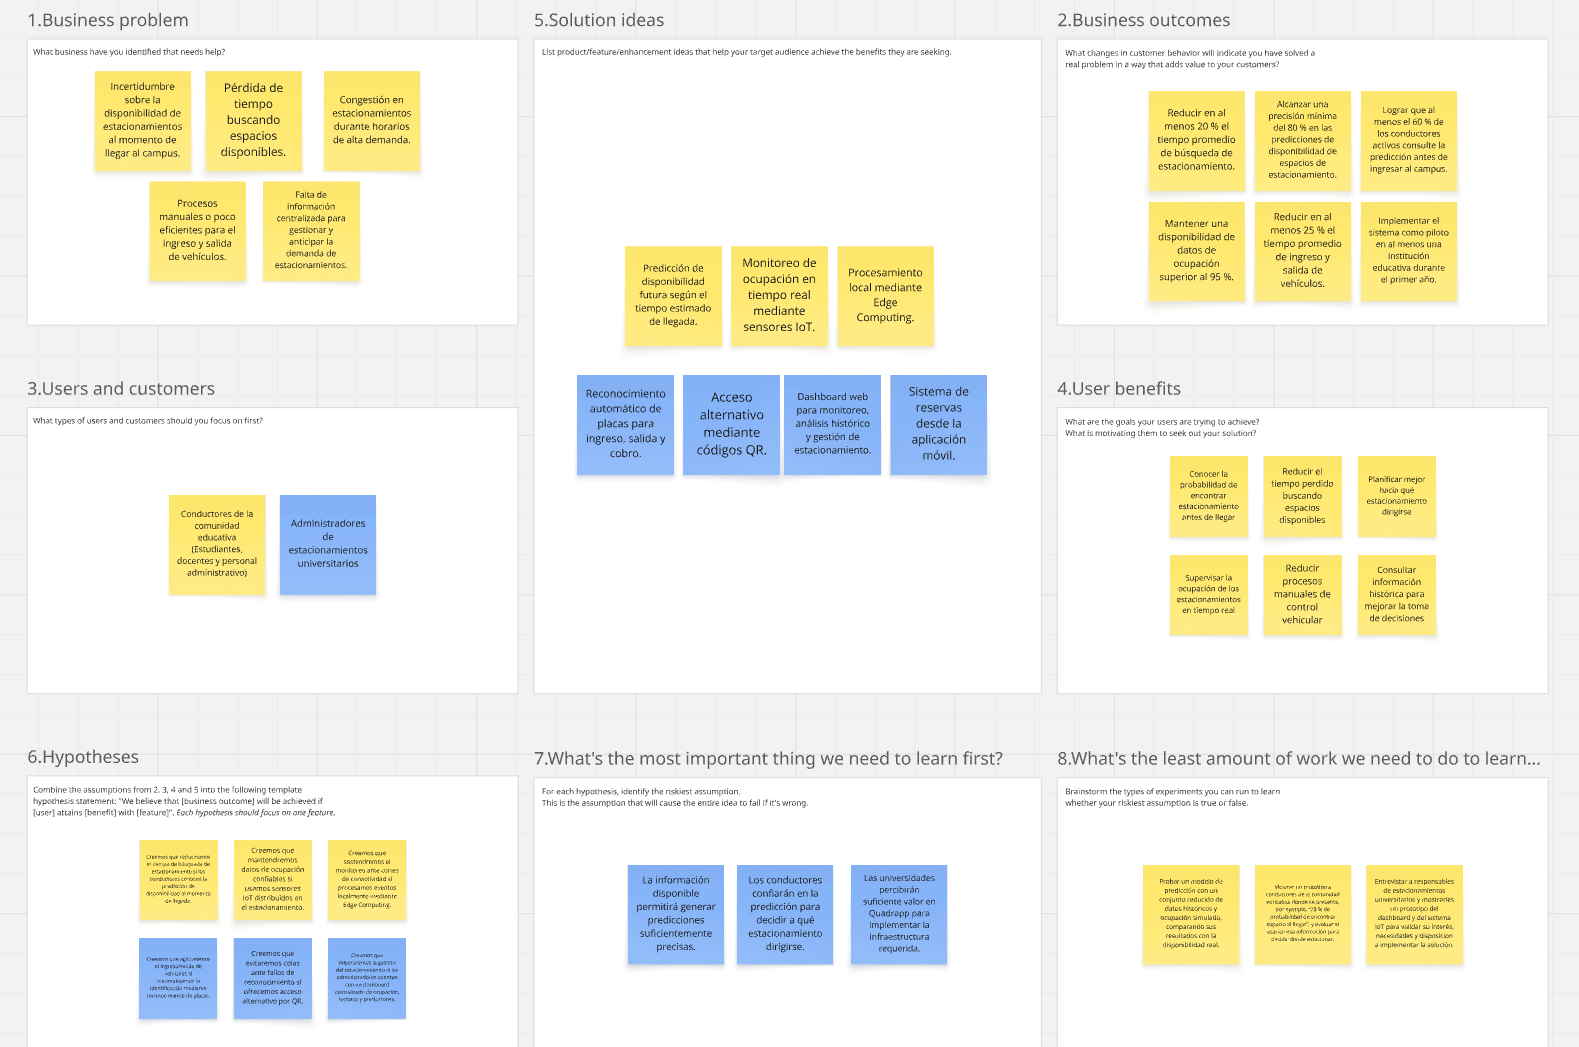
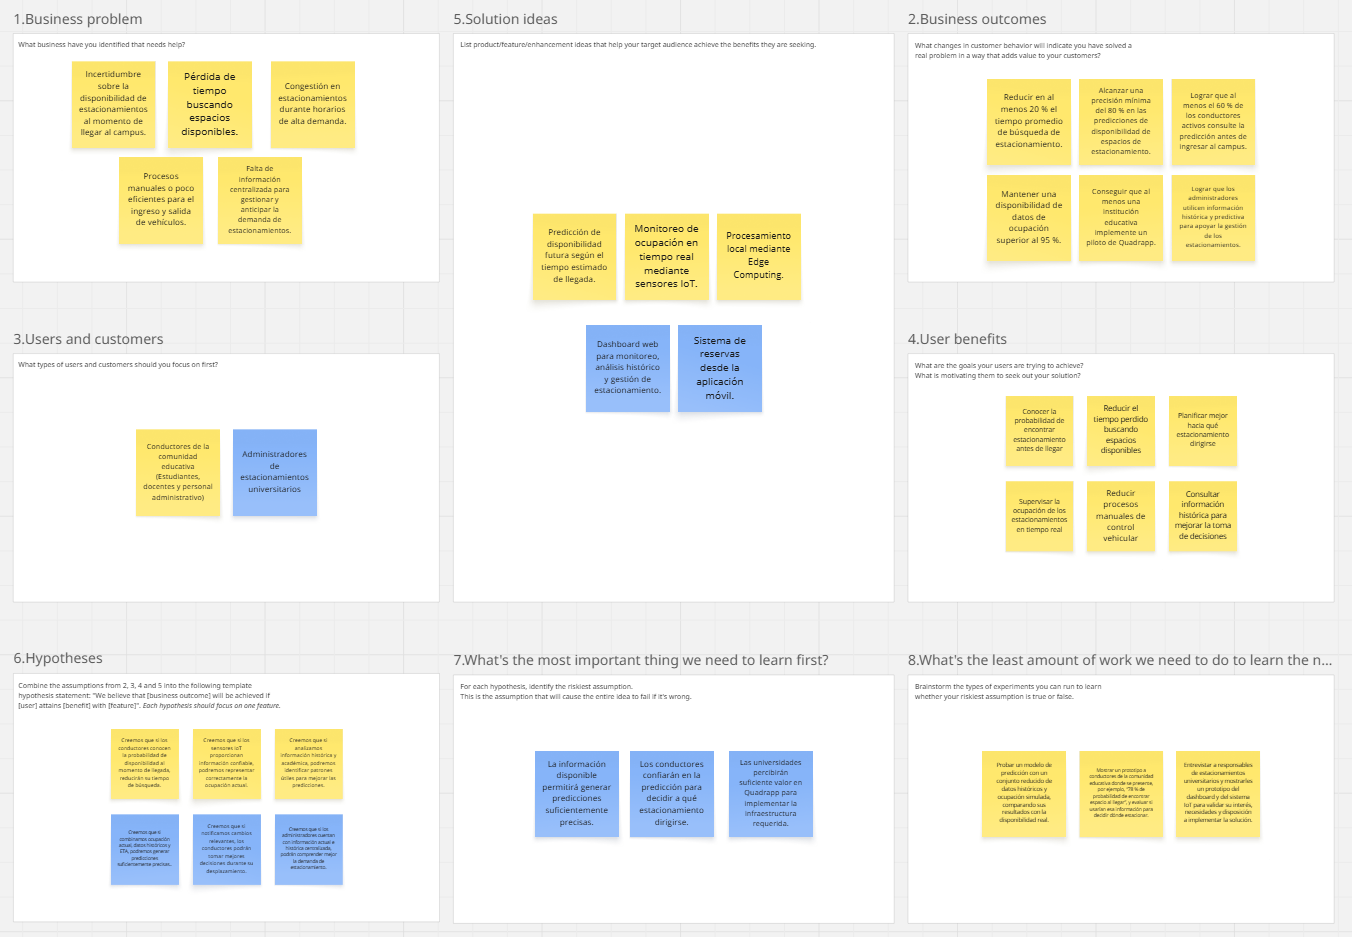
docs(chapter1): update lean ux process information

diff --git a/README.md b/README.md
@@ -271,42 +271,51 @@ Por otro lado, las universidades y administradores de estacionamientos necesitan
 
 Esta situación evidencia una brecha entre conocer cuántos espacios están disponibles actualmente y poder estimar qué probabilidad existe de encontrar uno al momento de llegar. Factores como el tiempo estimado de llegada, vehículos que se aproximan al campus, reservas existentes, registros históricos de ocupación, fecha, hora y horarios académicos pueden aportar información relevante para reducir esta incertidumbre.
 
-Frente a esta problemática, Quadrapp busca atender inicialmente a conductores de la comunidad educativa y administradores de estacionamientos universitarios, mediante una plataforma que combine información en tiempo real con datos históricos para estimar la disponibilidad futura de espacios. Asimismo, se busca agilizar la operación del estacionamiento mediante mecanismos automatizados de ingreso, salida y cobro, contribuyendo a una experiencia más predecible para el conductor y a una gestión más eficiente para las instituciones educativas.
+Frente a esta problemática, Quadrapp busca atender inicialmente a conductores de la comunidad educativa y administradores de estacionamientos universitarios, mediante una plataforma que combine información en tiempo real con datos históricos y académicos para estimar la disponibilidad futura. De esta manera, se busca ayudar a los conductores a tomar mejores decisiones antes de llegar al campus y proporcionar a los administradores información útil para comprender y gestionar la demanda de sus estacionamientos.
 
 #### 1.2.2.2. Lean UX Assumptions
 
 **Business Assumptions:**
 1. Los conductores de la comunidad educativa necesitan conocer no solo la disponibilidad actual de estacionamientos, sino también la probabilidad de encontrar un espacio disponible al momento estimado de su llegada al campus.
-2. Las necesidades de los conductores y de la instituciones serán atendidas mediante una aplicación móvil integrada con sensores IoT, datos históricos de ocupación, reservas, horarios académicos y estimaciones de tiempo de llegada, permitiendo generar predicciones sobre la disponibilidad futura de estacionamientos.
-3. Nuestros clientes iniciales serán universidades y centros educativos que administran estacionamientos propios y buscan reducir la congestión, optimizar el uso de sus espacios y mejorar la experiencia de movilidad dentro del campus.
-4. El principal valor que los conductores esperan de Quadrapp es contar con información que reduzca la incertidumbre sobre si encontrarán un espacio disponible cuando lleguen, permitiéndoles tomar mejores decisiones antes y durante su desplazamiento.
-5. Los administradores de estacionamientos también podrán obtener valor mediante un dashboard que centralice información sobre ocupación actual, reservas, ingresos, salidas, comportamiento histórico y períodos de mayor demanda.
-6. Obtendremos nuestra base inicial de clientes mediante alianzas con universidades y centros educativos, demostraciones de la solución en campus y propuestas de mejora de la gestión de estacionamientos dirigidas a las áreas responsables de infraestructura, seguridad y movilidad.
-7. Generaremos ingresos principalmente mediante un modelo de suscripción o licenciamiento institucional para universidades, considerando servicios adicionales asociados a la infraestructura IoT, procesamiento Edge y automatización de accesos.
-8. Nuestra principal competencia serán plataformas de estacionamiento como Apparka, sistemas tradicionales de control de acceso y soluciones de parking inteligente orientadas principalmente a mostrar disponibilidad actual, gestionar pagos o automatizar el ingreso de vehículos.
-9. Nuestro mayor riesgo es que la predicción de disponibilidad no alcance un nivel de precisión suficiente para generar confianza en los conductores, debido a información incompleta, fallas en sensores o cambios inesperados en el comportamiento de ocupación del estacionamiento.
+
+2. Las necesidades de los conductores serán atendidas mediante una aplicación móvil que combine datos de ocupación obtenidos mediante IoT, información histórica, horarios académicos y tiempo estimado de llegada para generar predicciones de disponibilidad futura.
+
+3. Nuestros clientes iniciales serán universidades y centros educativos que administran estacionamientos propios y buscan reducir la congestión, optimizar el uso de sus espacios y comprender mejor los patrones de movilidad dentro del campus.
+
+4. El principal valor que los conductores esperan de Quadrapp es reducir la incertidumbre sobre si encontrarán un espacio disponible cuando lleguen, permitiéndoles tomar mejores decisiones durante su desplazamiento.
+
+5. Los administradores obtendrán valor mediante un dashboard que centralice información sobre ocupación actual, comportamiento histórico, períodos de mayor demanda y predicciones de disponibilidad.
+
+6. Obtendremos nuestra base inicial de clientes mediante alianzas con universidades y centros educativos, demostraciones de la solución y pilotos en estacionamientos universitarios.
+
+7. Generaremos ingresos principalmente mediante un modelo de suscripción o licenciamiento institucional para las universidades que utilicen la plataforma y su infraestructura de monitoreo.
+
+8. Nuestra principal competencia serán plataformas de estacionamiento y soluciones de smart parking orientadas principalmente a mostrar disponibilidad actual o gestionar la ocupación, mientras Quadrapp buscará diferenciarse mediante la predicción de disponibilidad al momento estimado de llegada.
+
+9. Nuestro mayor riesgo es que la predicción no alcance un nivel de precisión suficiente para generar confianza debido a información incompleta, fallas en sensores o patrones de ocupación difíciles de anticipar.
+
 10. ¿Cuáles son las suposiciones que, si se demuestran falsas, harán que el proyecto fracase?
-    - Los conductores no considerarán útil una predicción si perciben diferencias frecuentes entre la probabilidad mostrada y la disponibilidad real al momento de llegar.
-    - Las universidades podrían no estar dispuestas a invertir en infraestructura IoT, cámaras y dispositivos Edge si el beneficio operativo no justifica su costo de implementación.
-    - La cantidad y calidad de los datos históricos podría ser insuficiente para generar predicciones confiables durante las primeras etapas de adopción.
-    - Las fallas en sensores, cámaras o conectividad podrían afectar la información utilizada para calcular la ocupación y disponibilidad futura.
-    - Los usuarios podrían continuar prefiriendo métodos tradicionales de ingreso y pago si los procesos automatizados no reducen significativamente los tiempos de espera.
+  - Los conductores no encontrarán útil la predicción si existen diferencias frecuentes con la disponibilidad real.
+  - Las universidades podrían no percibir suficiente valor en la implementación de infraestructura IoT.
+  - Los datos históricos podrían ser insuficientes para identificar patrones de demanda útiles.
+  - Las fallas de sensores o conectividad podrían afectar la información de ocupación.
+  - Los horarios académicos y datos históricos podrían no tener suficiente relación con los cambios de demanda como para mejorar las predicciones.
 
 **Business Outcomes:**
-1. Lograr que al menos una institución educativa implemente un piloto de Quadrapp durante el primer año de operación.
-2. Reducir en al menos un 20 % el tiempo promedio dedicado por los conductores a buscar estacionamiento dentro del campus durante los primeros seis meses de uso.
-3. Alcanzar una precisión mínima del 80 % en las estimaciones de disponibilidad futura una vez que el sistema cuente con suficiente información histórica.
-4. Conseguir que al menos el 60 % de los conductores activos consulte la predicción de disponibilidad antes de ingresar al campus durante períodos de alta demanda.
-5. Reducir en al menos un 25 % el tiempo promedio de ingreso y salida de vehículos mediante el reconocimiento automático de placas y los mecanismos digitales de acceso.
-6. Mantener una tasa de disponibilidad de datos de ocupación superior al 95 % mediante la integración de sensores IoT y dispositivos Edge instalados en los estacionamientos.
+1. Lograr que al menos una institución educativa implemente un piloto de Quadrapp durante el primer año.
+2. Reducir en al menos un 20 % el tiempo promedio dedicado por los conductores a buscar estacionamiento dentro del campus.
+3. Alcanzar una precisión mínima del 80 % en las estimaciones de disponibilidad futura una vez que exista suficiente información histórica.
+4. Conseguir que al menos el 60 % de los conductores activos consulte la predicción antes de llegar al campus durante períodos de alta demanda.4.
+5. Mantener una disponibilidad de datos de ocupación superior al 95 % mediante sensores IoT.
+6. Conseguir que los administradores utilicen regularmente la información histórica y de demanda proporcionada por el dashboard para supervisar sus estacionamientos.
 
 **User Assumptions:**
 1. ¿Quién es el usuario?
 Conductores de la comunidad educativa (estudiantes, docentes y personal administrativo) que se trasladen regularmente al campus, y administradores de estacionamientos universitarios responsables de supervisar la ocupación y operación de dichos espacios.
 
 2. ¿Dónde encajaría nuestro producto en la vida o trabajo del usuario?
-    - Para los conductores: Antes y durante su desplazamiento hacia la universidad, utilizando la aplicación móvil para consultar disponibilidad actual, conocer la probabilidad de encontrar un espacio al momento estimado de llegada, realizar reservas y gestionar su acceso al estacionamiento.
-    - Para los administradores: Durante la operación diaria del estacionamiento, utilizando un dashboard para supervisar la ocupación, revisar accesos, reservas, comportamiento histórico y períodos de mayor demanda.
+    - Conductores: Antes y durante su desplazamiento hacia la universidad, utilizando la aplicación móvil para consultar disponibilidad actual, conocer la probabilidad de encontrar un espacio al momento estimado de llegada, realizar reservas y gestionar su acceso al estacionamiento.
+    - Administradores: Durante la operación diaria del estacionamiento, utilizando un dashboard para supervisar la ocupación, revisar accesos, reservas, comportamiento histórico y períodos de mayor demanda.
 
 3. ¿Qué problemas resuelve el producto para el usuario?
     - Incertidumbre sobre la disponibilidad de estacionamientos al momento de llegar al campus.
@@ -317,65 +326,65 @@ Conductores de la comunidad educativa (estudiantes, docentes y personal administ
 
 4. ¿En qué contexto utiliza el usuario el producto?
     - Los conductores utilizarán principalmente la aplicación móvil mientras planifican o realizan su desplazamiento hacia el campus, consultando la disponibilidad actual y estimada según su tiempo aproximado de llegada.
-    - Los administradores utilizarán el dashboard durante la jornada académica para supervisar el estado de los estacionamientos, revisar períodos de alta ocupación y controlar los procesos de ingreso y salida.
+    - Los administradores utilizan la aplicación web durante la jornada para supervisar ocupación, tendencias y períodos de alta demanda.
 
 5. ¿Qué características son esenciales para el usuario? ¿Y por qué?
-    - Predicción de disponibilidad futura: Permite conocer la probabilidad de encontrar un espacio en tiempo real mientras el conductor se encuentre desplazando a su punto de llegada.
-    - Disponibilidad en tiempo real: Proporciona información actualizada sobre espacios libres y ocupados.
-    - Reservas de estacionamiento: Permite asegurar un espacio cuando el usuario lo requiera, realizando el pago correspondiente.
-    - Reconocimiento automático de placas: Agiliza los procesos de ingreso, salida y asociación del vehículo con el usuario.
-    - Acceso mediante QR: Funciona como alternativa cuando el reconocimiento de placas no pueda realizarse correctamente.
-    - Dashboard de gestión: Permite a los administradores analizar ocupación, demanda y patrones históricos del estacionamiento.
+    - **Predicción de disponibilidad futura:** estima la probabilidad de encontrar un espacio al momento de llegada.
+    - **Disponibilidad en tiempo real:** muestra la ocupación actual.
+    - **Monitoreo mediante IoT:** proporciona información actualizada de los espacios.
+    - **Analítica histórica:** permite identificar patrones de demanda y horas pico.
+    - **Notificaciones:** informa cambios relevantes relacionados con disponibilidad o demanda.
+    - **Dashboard de gestión:** centraliza información actual, histórica y predictiva.
 
 6. ¿Cómo debería verse y comportarse el producto?
-    - La aplicación móvil debe mostrar de manera clara la disponibilidad actual del estacionamiento y la probabilidad estimada de encontrar un espacio al momento de llegada, evitando presentar la predicción como una garantía absoluta.
-    - El aplicación web debe centralizar la ocupación actual, reservas, ingresos, salidas,información histórica y predicciones, presentando los datos de forma comprensible en un dashboard para apoyar la toma de decisiones del administrador.
+    - La aplicación móvil debe presentar claramente la disponibilidad actual, el tiempo estimado de llegada y la probabilidad de encontrar estacionamiento, dejando claro que se trata de una estimación.
+    - La aplicación web debe mostrar ocupación, datos históricos, patrones de demanda y predicciones de manera comprensible para los administradores.
 
 **User Outcomes:**
-1. Los conductores quieren reducir la incertidumbre antes de dirigirse hacia un estacionamiento, conociendo qué tan probable es encontrar un espacio cuando lleguen al campus.
-2. Los usuarios esperan disminuir el tiempo perdido buscando estacionamiento y evitar desplazamientos innecesarios entre diferentes zonas o estacionamientos de la universidad.
-3. Los conductores esperan que las predicciones sean suficientemente precisas para confiar en ellas al momento de decidir hacia qué estacionamiento dirigirse.
-4. Los usuarios valoran procesos rápidos de ingreso y salida mediante reconocimiento de placas, manteniendo una alternativa sencilla mediante QR cuando el reconocimiento automático no funcione correctamente.
-5. Los administradores de estacionamientos universitarios quieren reducir el esfuerzo operativo asociado al control de vehículos y contar con información histórica y actual que les permita anticipar períodos de alta demanda.
+1. Los conductores quieren reducir la incertidumbre antes de dirigirse hacia un estacionamiento.
+2. Los usuarios esperan disminuir el tiempo perdido buscando espacios disponibles.
+3. Los conductores esperan que las predicciones sean suficientemente precisas para utilizarlas al decidir hacia dónde dirigirse.
+4. Los conductores quieren recibir información clara y oportuna cuando existan cambios relevantes en la disponibilidad.
+5. Los administradores quieren conocer la ocupación actual y comprender patrones históricos para anticipar períodos de alta demanda.
 
 **Features Assumptions:**
-1. **Predicción de disponibilidad futura**
-    - Suposición: Si combinamos la ocupación actual obtenida mediante IoT con reservas, vehículos próximos al campus, datos históricos, fecha, hora, horarios académicos y tiempo estimado de llegada, podremos calcular una probabilidad útil de encontrar un espacio disponible cuando el conductor llegue.
-    - Riesgo: Si la predicción presenta errores frecuentes debido a cambios inesperados en la demanda o datos insuficientes, los conductores podrían perder confianza en la funcionalidad.
+1. **Predicción y asesoría de disponibilidad**
+    - Suposición: Si combinamos ocupación actual, información histórica, fecha, hora, horarios académicos y tiempo estimado de llegada, podremos estimar de manera útil la probabilidad de encontrar estacionamiento.
+    - Riesgo: Predicciones poco precisas pueden generar pérdida de confianza.
 
-2. **Monitoreo de ocupación mediante IoT**
-    - Suposición: Los sensores IoT permitirán identificar cambios de ocupación en los espacios de estacionamiento y mantener actualizada la información utilizada por la aplicación y el sistema de predicción.
-    - Riesgo: Fallas en sensores, problemas de conectividad o lecturas incorrectas podrían provocar diferencias entre la ocupación registrada por el sistema y la ocupación real.
+2. **Sensado del estacionamiento mediante IoT**
+    - Suposición: Los sensores permitirán detectar cambios en los espacios y proporcionar información actualizada sobre el estacionamiento.
+    - Riesgo: Fallas de sensores o conectividad pueden generar información incorrecta o incompleta.
 
-3. **Procesamiento mediante Edge Computing**
-    - Suposición: Procesar localmente eventos relacionados con sensores, cámaras, ingresos y salidas permitirá responder rápidamente ante cambios de ocupación y reducir la dependencia constante de servicios externos o de la nube.
-    - Riesgo: La distribución del procesamiento entre dispositivos Edge y servicios centrales podría aumentar la complejidad de sincronización, mantenimiento y recuperación ante fallos.
+3. **Gestión de ocupación**
+    - Suposición: Procesar los eventos generados por los sensores permitirá mantener una representación confiable de los espacios libres y ocupados.
+    - Riesgo: Eventos incorrectos, duplicados o retrasados podrían provocar diferencias entre la ocupación registrada y la real.
 
-4. **Reconocimiento automático de placas**
-    - Suposición: Utilizar cámaras para reconocer las placas permitirá identificar automáticamente a los vehículos autorizados y agilizar los procesos de ingreso, salida y cobro del estacionamiento.
-    - Riesgo: Factores como iluminación, suciedad, posición del vehículo o deterioro de la placa podrían impedir una identificación correcta y generar demoras en el acceso.
+4. **Analítica histórica**
+    - Suposición: Los datos históricos de ocupación permitirán identificar patrones de demanda según fecha, hora y contexto académico.
+    - Riesgo: Una cantidad insuficiente de datos o cambios inesperados en los patrones podrían limitar la utilidad del análisis.
 
-5. **Acceso alternativo mediante QR**
-    - Suposición: Proporcionar un código QR permitirá que el conductor pueda ingresar o salir del estacionamiento cuando el reconocimiento automático de placas falle, evitando depender de tickets físicos.
-    - Riesgo: Si el mecanismo alternativo requiere demasiados pasos o genera demoras durante horas punta, podría ocasionar colas en los puntos de acceso.
+5. **Alertas y notificaciones**
+    - Suposición: Informar a los conductores sobre cambios relevantes de disponibilidad ayudará a tomar mejores decisiones durante su desplazamiento.
+    - Riesgo: Un exceso de alertas podría provocar que los usuarios dejen de prestarles atención.
 
 6. **Dashboard de gestión y análisis**
-    - Suposición: Los administradores utilizarán un dashboard con información sobre ocupación actual, datos históricos, predicciones, reservas e ingresos para identificar patrones de demanda y mejorar la gestión de los estacionamientos.
-    - Riesgo: Si la información presentada es difícil de interpretar o no permite tomar acciones concretas, los administradores podrían continuar utilizando métodos tradicionales de gestión.
+    - Suposición: Los administradores utilizarán información actual, histórica y predictiva para comprender mejor la demanda y supervisar los estacionamientos.
+    - Riesgo: Si la información no es clara o accionable, el dashboard tendrá poco valor operativo.
 
 #### 1.2.2.3. Lean UX Hypothesis Statements
 
-- Creemos que los conductores reducirán el tiempo que dedican a buscar estacionamiento si pueden conocer la probabilidad de encontrar un espacio al momento de su llegada. Lo sabremos cuando al menos el 60 % consulte la predicción antes de ingresar al campus, la precisión alcance un mínimo del 80 % y el tiempo de búsqueda se reduzca en al menos un 20 %.
+- Creemos que los conductores reducirán el tiempo que dedican a buscar estacionamiento si pueden conocer la probabilidad de encontrar un espacio al momento de su llegada. Lo sabremos cuando al menos el 60 % consulte la predicción antes de llegar al campus, esta alcance una precisión mínima del 80 % y el tiempo de búsqueda se reduzca en al menos un 20 %.
 
-- Creemos que los sensores IoT permitirán mantener información confiable y actualizada sobre la ocupación de los estacionamientos. Lo confimaremos cuando la disponibilidad de los datos se mantenga por encima del 95 % durante el período piloto.
+- Creemos que los sensores IoT permitirán mantener información confiable y actualizada sobre la ocupación de los estacionamientos. Lo confirmaremos cuando la disponibilidad de los datos se mantenga por encima del 95 % durante el período piloto.
 
-- Creemos que el procesamiento local permitirá mantener el monitoreo del estacionamiento incluso cuando existan interrupciones temporales de conexión con la nube. Lo confirmaremos cuando los eventos continúen procesándose localmente y los datos pendientes puedan sincronizarse posteriormente sin pérdidas relevantes.
+- Creemos que procesar los eventos de sensado permitirá representar correctamente la ocupación actual de los estacionamientos. Lo confirmaremos cuando el estado registrado de los espacios coincida de manera consistente con su ocupación real durante las pruebas.
 
-- Creemos que el reconocimiento automático de placas agilizará el ingreso y salida de vehículos al reducir los procesos manuales de identificación. Lo sabremos cuando el tiempo promedio de acceso y salida disminuya al menos un 25 % respecto al proceso actual.
+- Creemos que el análisis de datos históricos permitirá identificar patrones de demanda útiles para mejorar las predicciones. Lo confirmaremos cuando se puedan reconocer tendencias recurrentes según fecha, hora y horarios académicos.
 
-- Creemos que el uso de códigos QR permitirá mantener un proceso de acceso rápido cuando el reconocimiento de placas falle. Lo confirmaremos cuando la mayoría de estos casos puedan resolverse mediante QR sin utilizar tickets físicos ni requerir intervención manual.
+- Creemos que las notificaciones sobre cambios relevantes de disponibilidad ayudarán a los conductores a tomar mejores decisiones durante su desplazamiento. Lo confirmaremos cuando los usuarios indiquen que las alertas recibidas son útiles y oportunas.
 
-- Creemos que los administradores podrán gestionar mejor los estacionamientos si cuentan con información centralizada sobre ocupación, reservas, historial y predicciones. Lo confirmaremos cuando utilicen el dashboard durante la operación diaria y la información les permita tomar decisiones sobre la disponibilidad y demanda de los espacios. Ahora continuemos con el Canvas.
+- Creemos que los administradores podrán gestionar mejor los estacionamientos si cuentan con información centralizada sobre ocupación, historial, patrones de demanda y predicciones. Lo confirmaremos cuando utilicen el dashboard durante la operación habitual para apoyar sus decisiones.
 
 #### 1.2.2.4. Lean UX Canvas
 
